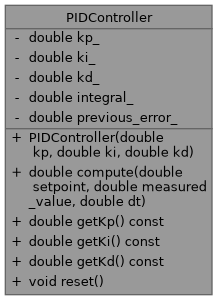
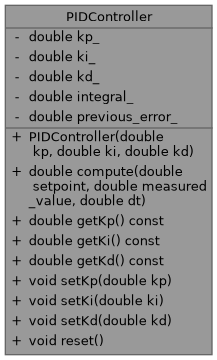
Added getters and setters for PIDController class.

diff --git a/libs/pid_controller/pid_controller.cpp b/libs/pid_controller/pid_controller.cpp
@@ -37,6 +37,18 @@ double PIDController::getKd() const {
   return 0.0;
 }
 
+void PIDController::setKp(double kp) {
+  // TODO: Implement setKp
+}
+
+void PIDController::setKi(double ki) {
+  // TODO: Implement setKi
+}
+
+void PIDController::setKd(double kd) {
+  // TODO: Implement setKd
+}
+
 void PIDController::reset() {
   // TODO: Implement reset logic
 }

diff --git a/libs/pid_controller/pid_controller.hpp b/libs/pid_controller/pid_controller.hpp
@@ -37,6 +37,10 @@ class PIDController {
   double getKi() const;
   double getKd() const;
 
+  void setKp(double kp);
+  void setKi(double ki);
+  void setKd(double kd);
+
   /**
    * @brief Reset the PID controller state (integral and previous error)
    *
